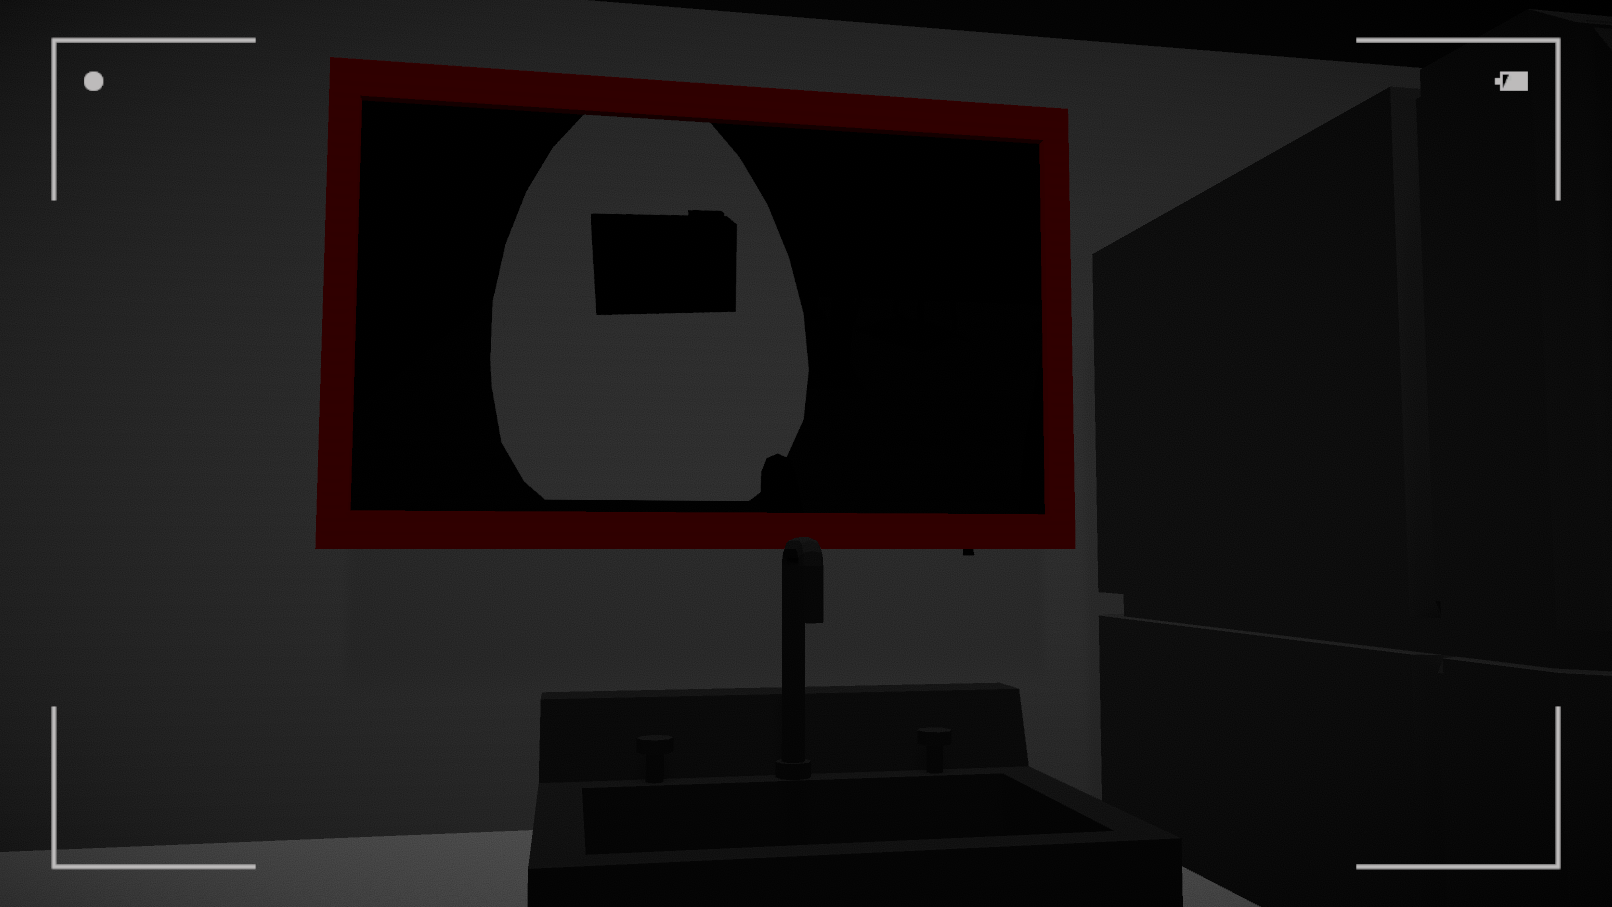
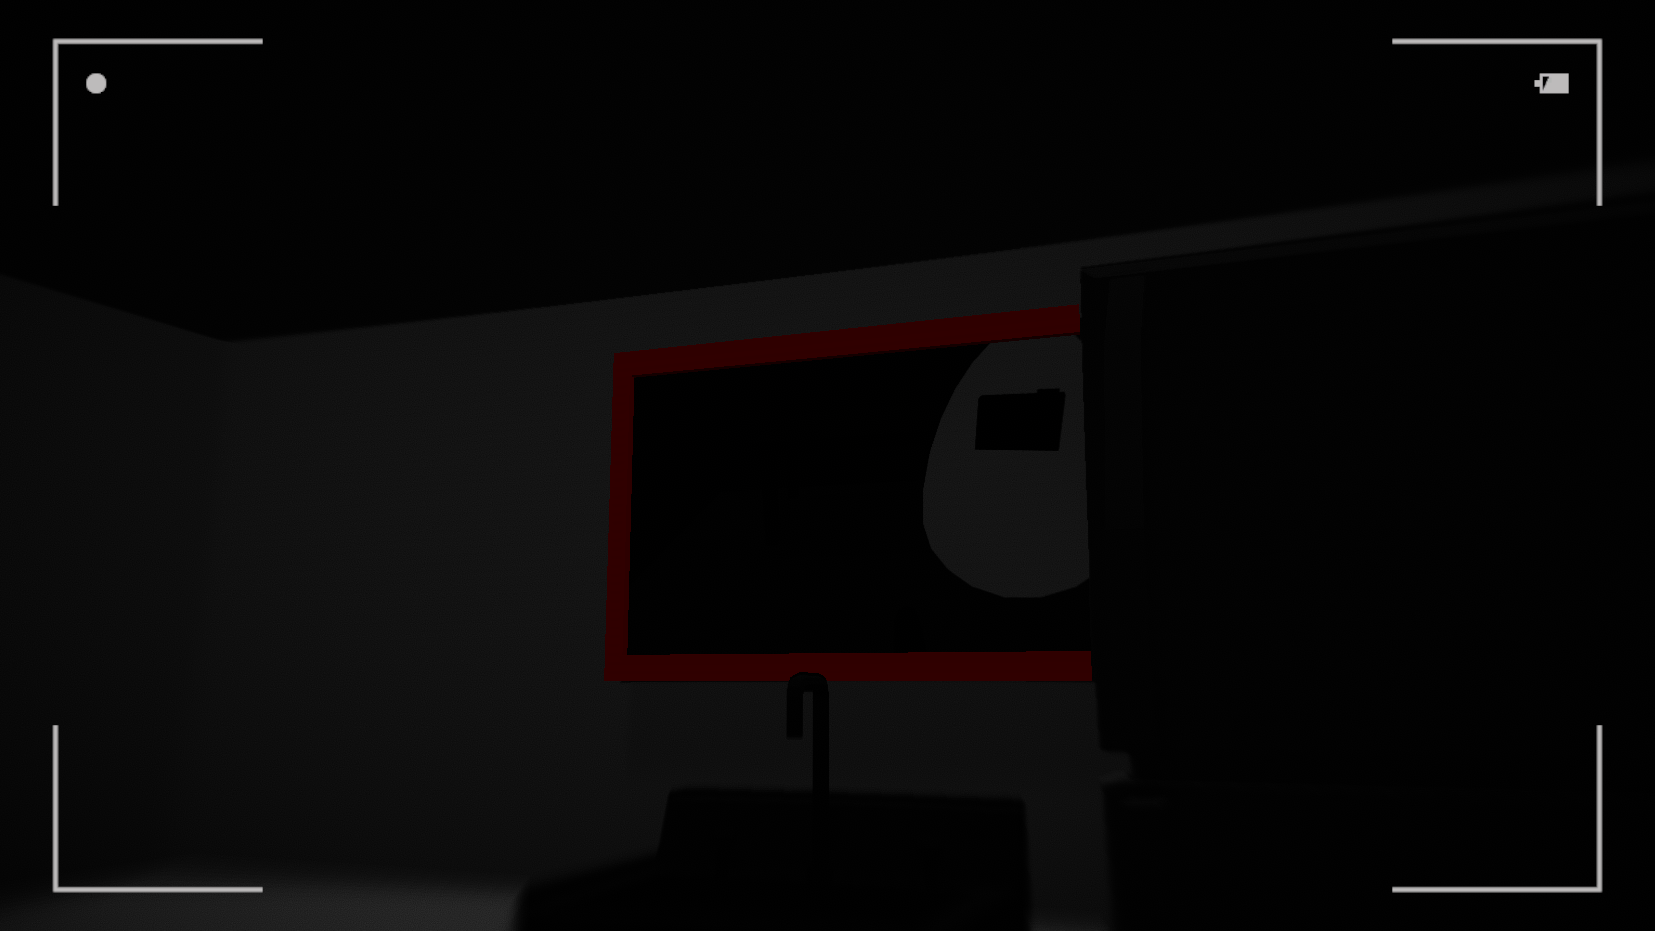
Chromatic Abberation on Zoom
Adds a chromatic aberation to the zoom camera

diff --git a/Assets/Script/scr_camOverlay.cs b/Assets/Script/scr_camOverlay.cs
@@ -1,21 +1,39 @@
 using System.Collections;
 using System.Collections.Generic;
 using UnityEngine;
+using UnityEngine.Rendering.PostProcessing;
 
 public class scr_camOverlay : MonoBehaviour
 {
 
     public GameObject camImage;
+    public PostProcessVolume volume;
 
+
+    private void Start()
+    {
+       
+    }
     // Update is called once per frame
     void Update()
     {
         if (Input.GetMouseButton(1))
         {
             camImage.SetActive(true);
+            ChromaticAberration chromaticAberration;
+            if (volume.profile.TryGetSettings(out chromaticAberration))
+            {
+                chromaticAberration.intensity.value = 1;
+            }
+
         } else
         {
             camImage.SetActive(false);
+            ChromaticAberration chromaticAberration;
+            if (volume.profile.TryGetSettings(out chromaticAberration))
+            {
+                chromaticAberration.intensity.value = 0;
+            }
         }
     }
 }
